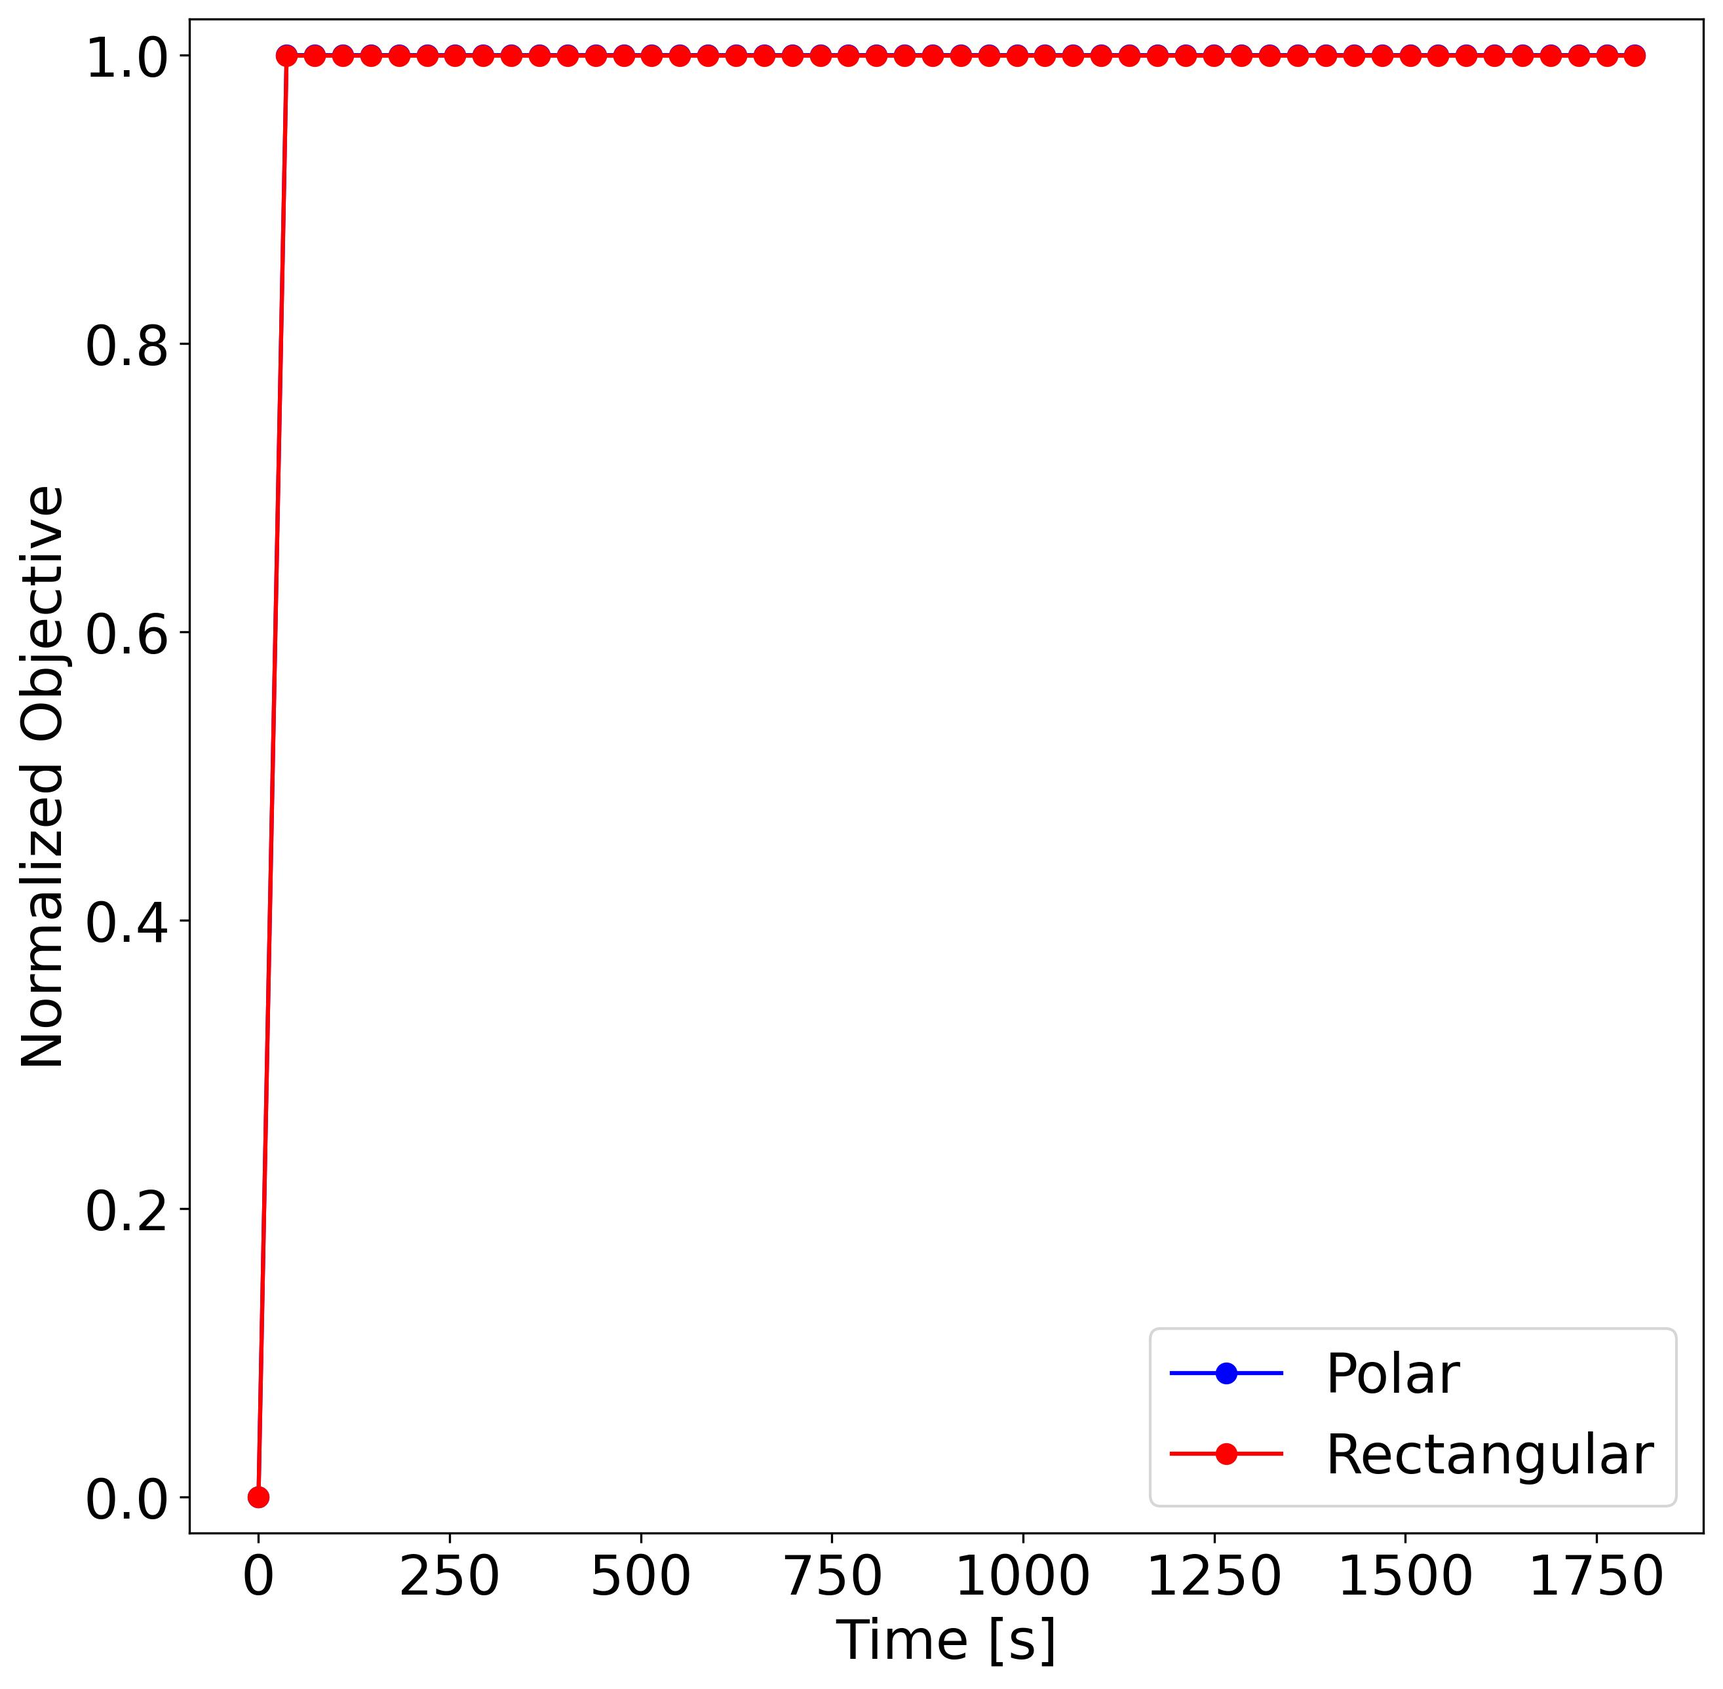
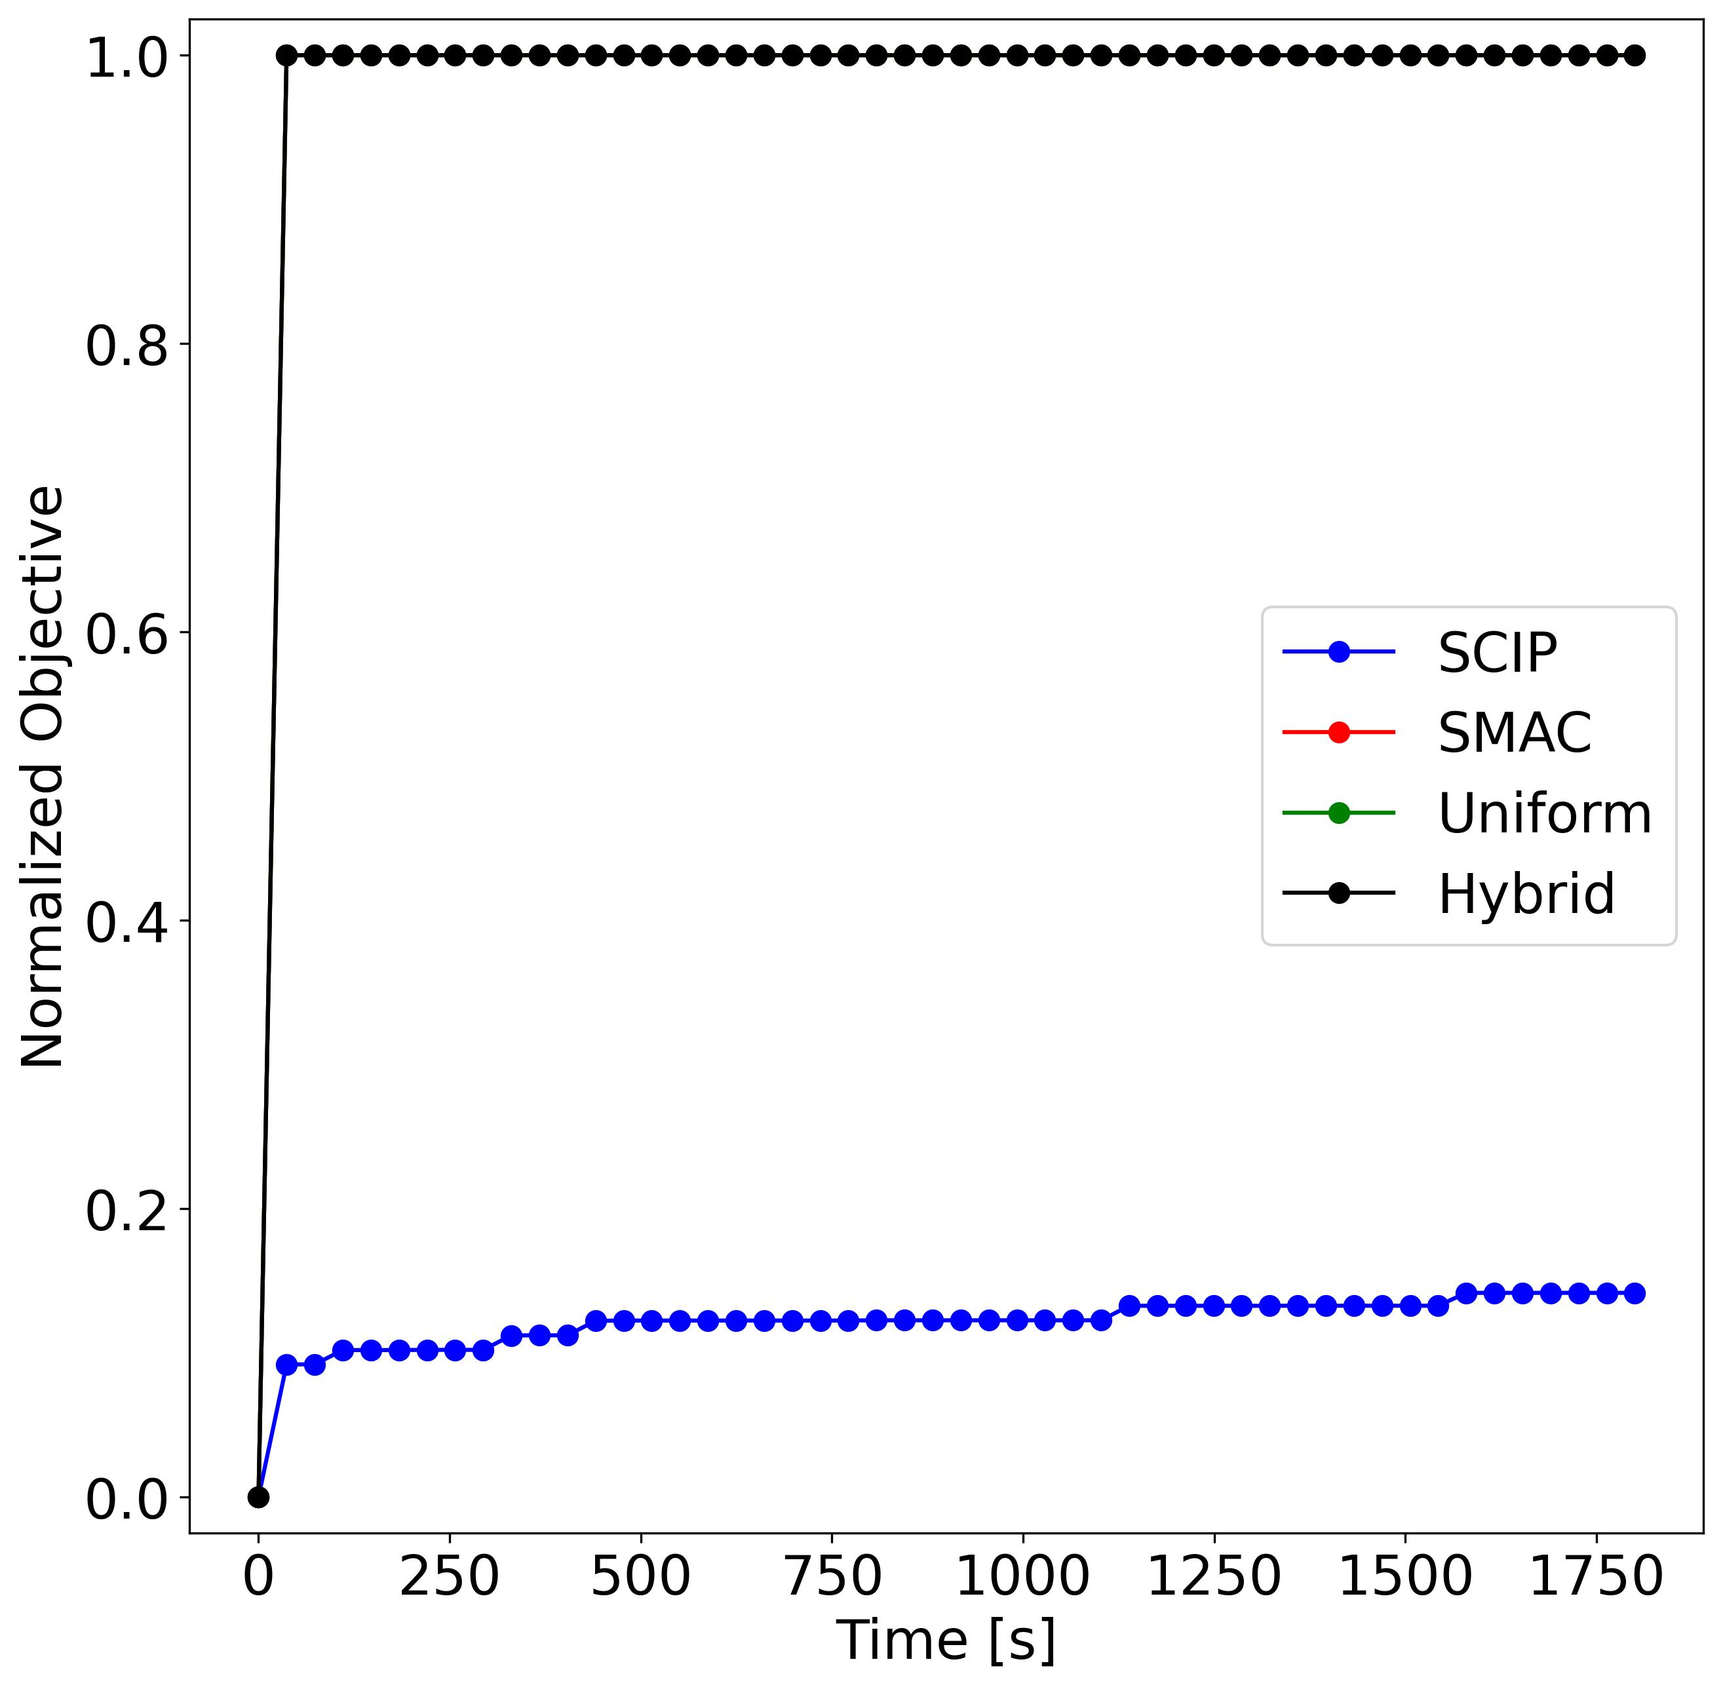
separates run_calculations into separate runs for each main function

diff --git a/run_parallel.py b/run_parallel.py
@@ -1,128 +1,27 @@
+"""Runs multiple stored power-flow instances in parallel."""
+
 import os
 import pickle
 import shutil
 import sys
-import time
-from contextlib import contextmanager
-from functools import partial
+from collections.abc import Iterator
 from concurrent.futures import TimeoutError as FutureTimeoutError, as_completed
+from contextlib import contextmanager
 from pathlib import Path
-from typing import Any, Iterator
+from typing import Any
 
-import numpy as np
 import pandas as pd
-from networkx import Graph
-from pebble import ProcessPool
 from cattrs.preconf.json import make_converter
-from qiskit.primitives import StatevectorSampler
+from pebble import ProcessPool
 from tqdm import tqdm
 
-import debug
-from src import PowerFlowProblemGenerator, LognormalSpec
-from src.CircuitLayer import AllToAllEntangler, ZXMixer
-from src.ContinuousPowerOptimizer import CasadiOptimizer
+from run_single import get_solver
 from src.HistoryEntry import HistoryEntry
-from src.Generator import Generator
 from src.PowerFlowProblem import PowerFlowProblem
-from src.PowerFlowSolver import SCIPSolver, HybridSolver, PowerFlowSolver, SmacSolver, UniformSolver
-from src.Sampler import MySamplerV2
-from src.VariationalQuantumProgram import VariationalQuantumProgram
-from src.utils import my_format
+from src.PowerFlowSolver import PowerFlowSolver
 
 
-def generate_dataset():
-    num_generators = 5
-    problem_generator = PowerFlowProblemGenerator()
-    problem_generator.generate_instances(num_generators, 100, voltage_range=(0, 100), output_folder=f"data/{num_generators}", strictness_factor=1.2)
-
-
-def run_single():
-    # problem = get_power_flow_ac_problem()
-    index = 49
-    voltage_deviation_mult = 10
-    exact_final_expectation = False
-    data_path = Path(f"data/5/capacity_100")
-    with (data_path / f"{index}.pkl").open("rb") as file:
-        problem = PowerFlowProblem(pickle.load(file), voltage_deviation_mult)
-
-    # debug.set_all_edge_capacities(problem, 100)
-    # debug.set_all_node_voltage_ranges(problem, (1, 100))
-    # debug.set_all_generator_p_min(problem, 0)
-
-    # solver = ClassicalSolver()
-    solver = get_solver(len(problem.generators))
-
-    inner_solver = solver.inner_optimizer_factory(problem)
-    inner_solver.optimize("11110")
-
-    progress_folder = data_path / f".progress_{solver.name}"
-    progress_folder.mkdir(exist_ok=True)
-    progress_path = progress_folder / f"{index}.pkl"
-    if isinstance(solver, HybridSolver):
-        history, extra = solver.solve(problem, progress_path, exact_final_expectation)
-    else:
-        history, extra = solver.solve(problem, progress_path)
-
-    print("\nSolution:")
-    debug.print_evaluation_result(problem, history[-1].result)
-    print(f"Job index: {history[-1].job_ind}")
-    if "total_jobs" in extra:
-        print(f"Total jobs: {extra["total_jobs"]}")
-    if exact_final_expectation:
-        print(f"Optimized probabilities: {my_format(extra["final_probs"])}")
-        print(f"Optimized expectation: {extra["cost_expectation"]}")
-
-
-def get_solver(num_generators: int) -> PowerFlowSolver:
-    max_inner_time_s = 30
-    penalty_mult = 10
-    feasibility_tolerance = 1e-10
-    silent = True
-    seed = 0
-
-    vqp = get_variational_quantum_program(num_generators)
-    inner_optimizer_factory = partial(CasadiOptimizer, penalty_mult=penalty_mult, max_time_s=max_inner_time_s, silent=True)
-
-    # solver = SCIPSolver(feasibility_tolerance, silent, seed)
-    solver = SmacSolver(inner_optimizer_factory, feasibility_tolerance, silent, seed)
-    # solver = UniformSolver(inner_optimizer_factory, feasibility_tolerance, seed)
-    # solver = HybridSolver(vqp, inner_optimizer_factory, feasibility_tolerance, seed)
-    return solver
-
-
-def get_variational_quantum_program(num_qubits: int) -> VariationalQuantumProgram:
-    entangler = AllToAllEntangler(num_qubits)
-    mixer = ZXMixer(num_qubits)
-    num_layers = 1
-
-    # sampler = ExactSampler()
-    sampler = MySamplerV2(StatevectorSampler(default_shots=1000))
-    # sampler = IonQSampler("simulator", 1000, None)
-    # sampler = IonQSampler("qpu.forte-enterprise-1", 1000, None)
-
-    return VariationalQuantumProgram(num_layers, [entangler, mixer], sampler)
-
-
-def get_power_flow_ac_problem() -> PowerFlowProblem:
-    voltage_range = (0, 10)
-    angle_range = (-np.pi, np.pi)
-    graph = Graph()
-
-    graph.add_node(0, generators=[Generator((0, 100), (-100, 100), (0, 1, 1))], load=0, voltage_range=voltage_range, angle_range=angle_range)
-    graph.add_node(1, generators=[], load=10, voltage_range=voltage_range, angle_range=angle_range)
-    graph.add_edge(0, 1, capacity=100, admittance=1 + 1j)
-
-    # graph.add_node(0, generators=[Generator((0, 30), (0, 0), (0, 10, 1))], load=0, voltage_range=voltage_range, angle_range=angle_range)
-    # graph.add_node(1, generators=[Generator((0, 10), (0, 0), (0, 20, 1))], load=10, voltage_range=voltage_range, angle_range=angle_range)
-    # graph.add_node(2, generators=[], load=10, voltage_range=voltage_range, angle_range=angle_range)
-    # graph.add_edge(0, 1, capacity=10, admittance=1)
-    # graph.add_edge(0, 2, capacity=5, admittance=1)
-    # graph.add_edge(1, 2, capacity=10, admittance=1)
-
-    return PowerFlowProblem(graph)
-
-
-def run_parallel():
+def run_parallel() -> None:
     """Runs selected instances in parallel and persists each completed result to CSV."""
     num_generators = 5
     data_folder = Path(f"data/{num_generators}")
@@ -135,8 +34,7 @@ def run_parallel():
     solutions_path = data_folder / f".solutions_{solver.name}.csv"
     columns = ["instance", "generator_assignments", "continuous_parameters", "cost", "penalty", "job_ind", "total_jobs", "avg_inner", "history", "error"]
     if solutions_path.exists():
-        existing_df = pd.read_csv(solutions_path, dtype={"instance": "Int64", "generator_assignments": "string"})
-        existing_df = existing_df.reindex(columns=columns)
+        existing_df = pd.read_csv(solutions_path, dtype={"instance": "Int64", "generator_assignments": "string"}).reindex(columns=columns)
     else:
         existing_df = pd.DataFrame(columns=columns)
 
@@ -145,7 +43,7 @@ def run_parallel():
         filled_index_set = set(existing_df.loc[filled_mask, "instance"].astype(int).tolist())
         instance_indices = [index for index in instance_indices if index not in filled_index_set]
 
-    if len(instance_indices) == 0:
+    if not instance_indices:
         print("No instance indices selected for run_parallel.")
         return
 
@@ -161,8 +59,9 @@ def run_parallel():
     error_count = 0
     with ProcessPool(max_workers=workers) as pool:
         future_to_metadata = \
-            {pool.schedule(run_instance, args=(data_folder, index, solver, voltage_deviation_mult), timeout=timeout_s): index for index in instance_indices}
-        for future in tqdm(as_completed(future_to_metadata), total=len(future_to_metadata), smoothing=0.0):
+            {pool.schedule(run_instance, args=(data_folder, index, solver, voltage_deviation_mult), timeout=timeout_s): index
+             for index in instance_indices}
+        for future in tqdm(as_completed(future_to_metadata), total=len(future_to_metadata), smoothing=0):
             index = future_to_metadata[future]
             progress_path = progress_folder / f"{index}.pkl"
             log_path = progress_folder / f"{index}.txt"
@@ -250,14 +149,4 @@ def redirect_worker_output(log_path: Path) -> Iterator[None]:
 
 
 if __name__ == "__main__":
-    t1 = time.perf_counter()
-
-    # debug.save_instance_human_readable("data/5/5.pkl")
-    # debug.print_solution_from_csv("data/5/capacity_100/.solutions_casadi.csv", 49)
-
-    # generate_dataset()
-    # run_single()
     run_parallel()
-
-    t2 = time.perf_counter()
-    print(f"Elapsed time {t2 - t1} seconds")

diff --git a/run_single.py b/run_single.py
@@ -1,0 +1,121 @@
+"""Runs one power-flow instance with the configured solver."""
+
+import pickle
+from functools import partial
+from pathlib import Path
+
+import numpy as np
+from networkx import Graph
+from qiskit.primitives import StatevectorSampler
+
+import debug
+from src.CircuitLayer import AllToAllEntangler, ZXMixer
+from src.ContinuousPowerOptimizer import CasadiOptimizer
+from src.Generator import Generator
+from src.PowerFlowProblem import PowerFlowProblem
+from src.PowerFlowSolver import HybridSolver, PowerFlowSolver, SCIPSolver
+from src.Sampler import MySamplerV2
+from src.VariationalQuantumProgram import VariationalQuantumProgram
+from src.utils import my_format
+
+
+def run_single() -> None:
+    """Runs the configured solver on one stored problem instance."""
+    # problem = get_power_flow_ac_problem()
+    index = 49
+    voltage_deviation_mult = 10
+    exact_final_expectation = False
+    data_path = Path("data/5/capacity_100")
+    with (data_path / f"{index}.pkl").open("rb") as file:
+        problem = PowerFlowProblem(pickle.load(file), voltage_deviation_mult)
+
+    # debug.set_all_edge_capacities(problem, 100)
+    # debug.set_all_node_voltage_ranges(problem, (1, 100))
+    # debug.set_all_generator_p_min(problem, 0)
+
+    # solver = ClassicalSolver()
+    solver = get_solver(len(problem.generators))
+
+    inner_solver = solver.inner_optimizer_factory(problem)
+    inner_solver.optimize("11110")
+
+    progress_folder = data_path / f".progress_{solver.name}"
+    progress_folder.mkdir(exist_ok=True)
+    progress_path = progress_folder / f"{index}.pkl"
+    if isinstance(solver, HybridSolver):
+        history, extra = solver.solve(problem, progress_path, exact_final_expectation)
+    else:
+        history, extra = solver.solve(problem, progress_path)
+
+    print("\nSolution:")
+    debug.print_evaluation_result(problem, history[-1].result)
+    print(f"Job index: {history[-1].job_ind}")
+    if "total_jobs" in extra:
+        print(f"Total jobs: {extra['total_jobs']}")
+    if exact_final_expectation:
+        print(f"Optimized probabilities: {my_format(extra['final_probs'])}")
+        print(f"Optimized expectation: {extra['cost_expectation']}")
+
+
+def get_solver(num_generators: int) -> PowerFlowSolver:
+    """Builds the configured solver for a problem size.
+    :param num_generators: Number of generators or qubits in the target instance.
+    :return: Solver configured for the current experiment.
+    """
+    max_inner_time_s = 30
+    penalty_mult = 10
+    feasibility_tolerance = 1e-10
+    silent = True
+    seed = 0
+
+    vqp = get_variational_quantum_program(num_generators)
+    inner_optimizer_factory = partial(CasadiOptimizer, penalty_mult=penalty_mult, max_time_s=max_inner_time_s, silent=True)
+
+    solver = SCIPSolver(feasibility_tolerance, silent, seed, "scip_adaptive")
+    # solver = SmacSolver(inner_optimizer_factory, feasibility_tolerance, silent, seed)
+    # solver = UniformSolver(inner_optimizer_factory, feasibility_tolerance, seed)
+    # solver = HybridSolver(vqp, inner_optimizer_factory, feasibility_tolerance, seed)
+    return solver
+
+
+def get_variational_quantum_program(num_qubits: int) -> VariationalQuantumProgram:
+    """Builds the variational quantum program used by hybrid solvers.
+    :param num_qubits: Number of qubits used by the program.
+    :return: Configured variational quantum program.
+    """
+    entangler = AllToAllEntangler(num_qubits)
+    mixer = ZXMixer(num_qubits)
+    num_layers = 1
+
+    # sampler = ExactSampler()
+    sampler = MySamplerV2(StatevectorSampler(default_shots=1000))
+    # sampler = IonQSampler("simulator", 1000, None)
+    # sampler = IonQSampler("qpu.forte-enterprise-1", 1000, None)
+
+    return VariationalQuantumProgram(num_layers, [entangler, mixer], sampler)
+
+
+def get_power_flow_ac_problem() -> PowerFlowProblem:
+    """Builds a small manual AC power-flow problem for debugging.
+    :return: Hand-constructed power-flow problem.
+    """
+    voltage_range = (0, 10)
+    angle_range = (-np.pi, np.pi)
+    graph = Graph()
+
+    graph.add_node(0, generators=[Generator((0, 100), (-100, 100), (0, 1, 1))], load=0, voltage_range=voltage_range, angle_range=angle_range)
+    graph.add_node(1, generators=[], load=10, voltage_range=voltage_range, angle_range=angle_range)
+    graph.add_edge(0, 1, capacity=100, admittance=1 + 1j)
+
+    # graph.add_node(0, generators=[Generator((0, 30), (0, 0), (0, 10, 1))], load=0, voltage_range=voltage_range, angle_range=angle_range)
+    # graph.add_node(1, generators=[Generator((0, 10), (0, 0), (0, 20, 1))], load=10, voltage_range=voltage_range, angle_range=angle_range)
+    # graph.add_node(2, generators=[], load=10, voltage_range=voltage_range, angle_range=angle_range)
+    # graph.add_edge(0, 1, capacity=10, admittance=1)
+    # graph.add_edge(0, 2, capacity=5, admittance=1)
+    # graph.add_edge(1, 2, capacity=10, admittance=1)
+
+    return PowerFlowProblem(graph)
+
+
+if __name__ == "__main__":
+    run_single()

diff --git a/plots/power_grid_opt.py b/plots/power_grid_opt.py
@@ -57,23 +57,23 @@ def plot_instance_objective_histories():
 
 def plot_polar_vs_rectangular():
     """Plots normalized objective histories for polar and rectangular CasADi results on the 5-generator dataset."""
-    plot_histories([5], np.linspace(0, 1800, 50).tolist(), ["casadi", "casadi_rectangular"], ["Polar", "Rectangular"])
+    plot_histories([5], np.linspace(0, 1800, 50).tolist(), ["casadi", "casadi_rectangular"])
 
 
 def plot_average_normalized_objective_histories():
     """Plots average normalized objective histories for the default solver comparison."""
-    plot_histories([10, 11], np.linspace(0, 1800, 50).tolist(), ["scip", "slsqp", "casadi"])
+    # ["smac", "scip", "scip_adaptive", "scip_branching", "scip_FAAA", "scip_FAFF", "scip_ipopt", "scip_numerics", "scip_phaseimprove"]
+    # ["scip", "smac", "uniform", "hybrid", "scip_FAFF", "scip_ipopt", "scip_adaptive"]
+    plot_histories([5], np.linspace(0, 1800, 50).tolist(), ["scip", "smac", "uniform", "hybrid"])
 
 
-def plot_histories(num_generators: Sequence[int], grid_times: Sequence[float], solver_ids: Sequence[str], solver_names: Sequence[str] | None = None):
+def plot_histories(num_generators: Sequence[int], grid_times: Sequence[float], solver_ids: Sequence[str]):
     """Plots average normalized objective histories for configured solvers.
     :param num_generators: Generator counts whose datasets should be plotted together.
     :param grid_times: Uniform time grid used to align objective histories.
     :param solver_ids: Solver ids whose CSV files should be loaded from each dataset folder.
-    :param solver_names: Optional display names used for solver legend labels in the same order as ``solver_ids``.
     """
-    solver_names = {solver_id: solver_name for solver_id, solver_name in zip(solver_ids, solver_names)} if solver_names is not None else \
-                   {"scip": "SCIP", "slsqp": "SLSQP", "casadi": "CasADi"}
+    solver_names = {"scip": "SCIP", "smac": "SMAC", "uniform": "Uniform", "hybrid": "Hybrid"}
     infeasible_tolerance = 1e-10
     instance_ids = list(range(100))
     lines = []
@@ -90,7 +90,7 @@ def plot_histories(num_generators: Sequence[int], grid_times: Sequence[float], s
             if solver_id not in solver_histories:
                 continue
             curve = _get_average_normalized_curve(grid_times, instance_ids, solver_histories[solver_id], best_objectives)
-            label = solver_names[solver_id] if solver_id not in labeled_solvers else "_nolabel_"
+            label = solver_names.get(solver_id, solver_id) if solver_id not in labeled_solvers else "_nolabel_"
             lines.append(Line(grid_times, curve, color=solver_index, marker=num_gens_ind, label=label))
             labeled_solvers.add(solver_id)
     plot_general(lines, axis_labels=("Time [s]", "Normalized Objective"), boundaries=(None, None, -0.025, 1.025))
@@ -154,5 +154,6 @@ def _get_average_normalized_curve(grid_times: Sequence[float], instance_ids: lis
 
 if __name__ == "__main__":
     # plot_instance_objective_histories()
-    plot_polar_vs_rectangular()
+    # plot_polar_vs_rectangular()
+    plot_average_normalized_objective_histories()
     plt.show()

diff --git a/generate_dataset.py b/generate_dataset.py
@@ -1,0 +1,14 @@
+"""Generates datasets for power-flow optimization experiments."""
+
+from src import PowerFlowProblemGenerator
+
+
+def generate_dataset() -> None:
+    """Generates a dataset of random power-flow instances."""
+    num_generators = 5
+    problem_generator = PowerFlowProblemGenerator()
+    problem_generator.generate_instances(num_generators, 100, voltage_range=(0, 100), output_folder=f"data/{num_generators}", strictness_factor=1.2)
+
+
+if __name__ == "__main__":
+    generate_dataset()
